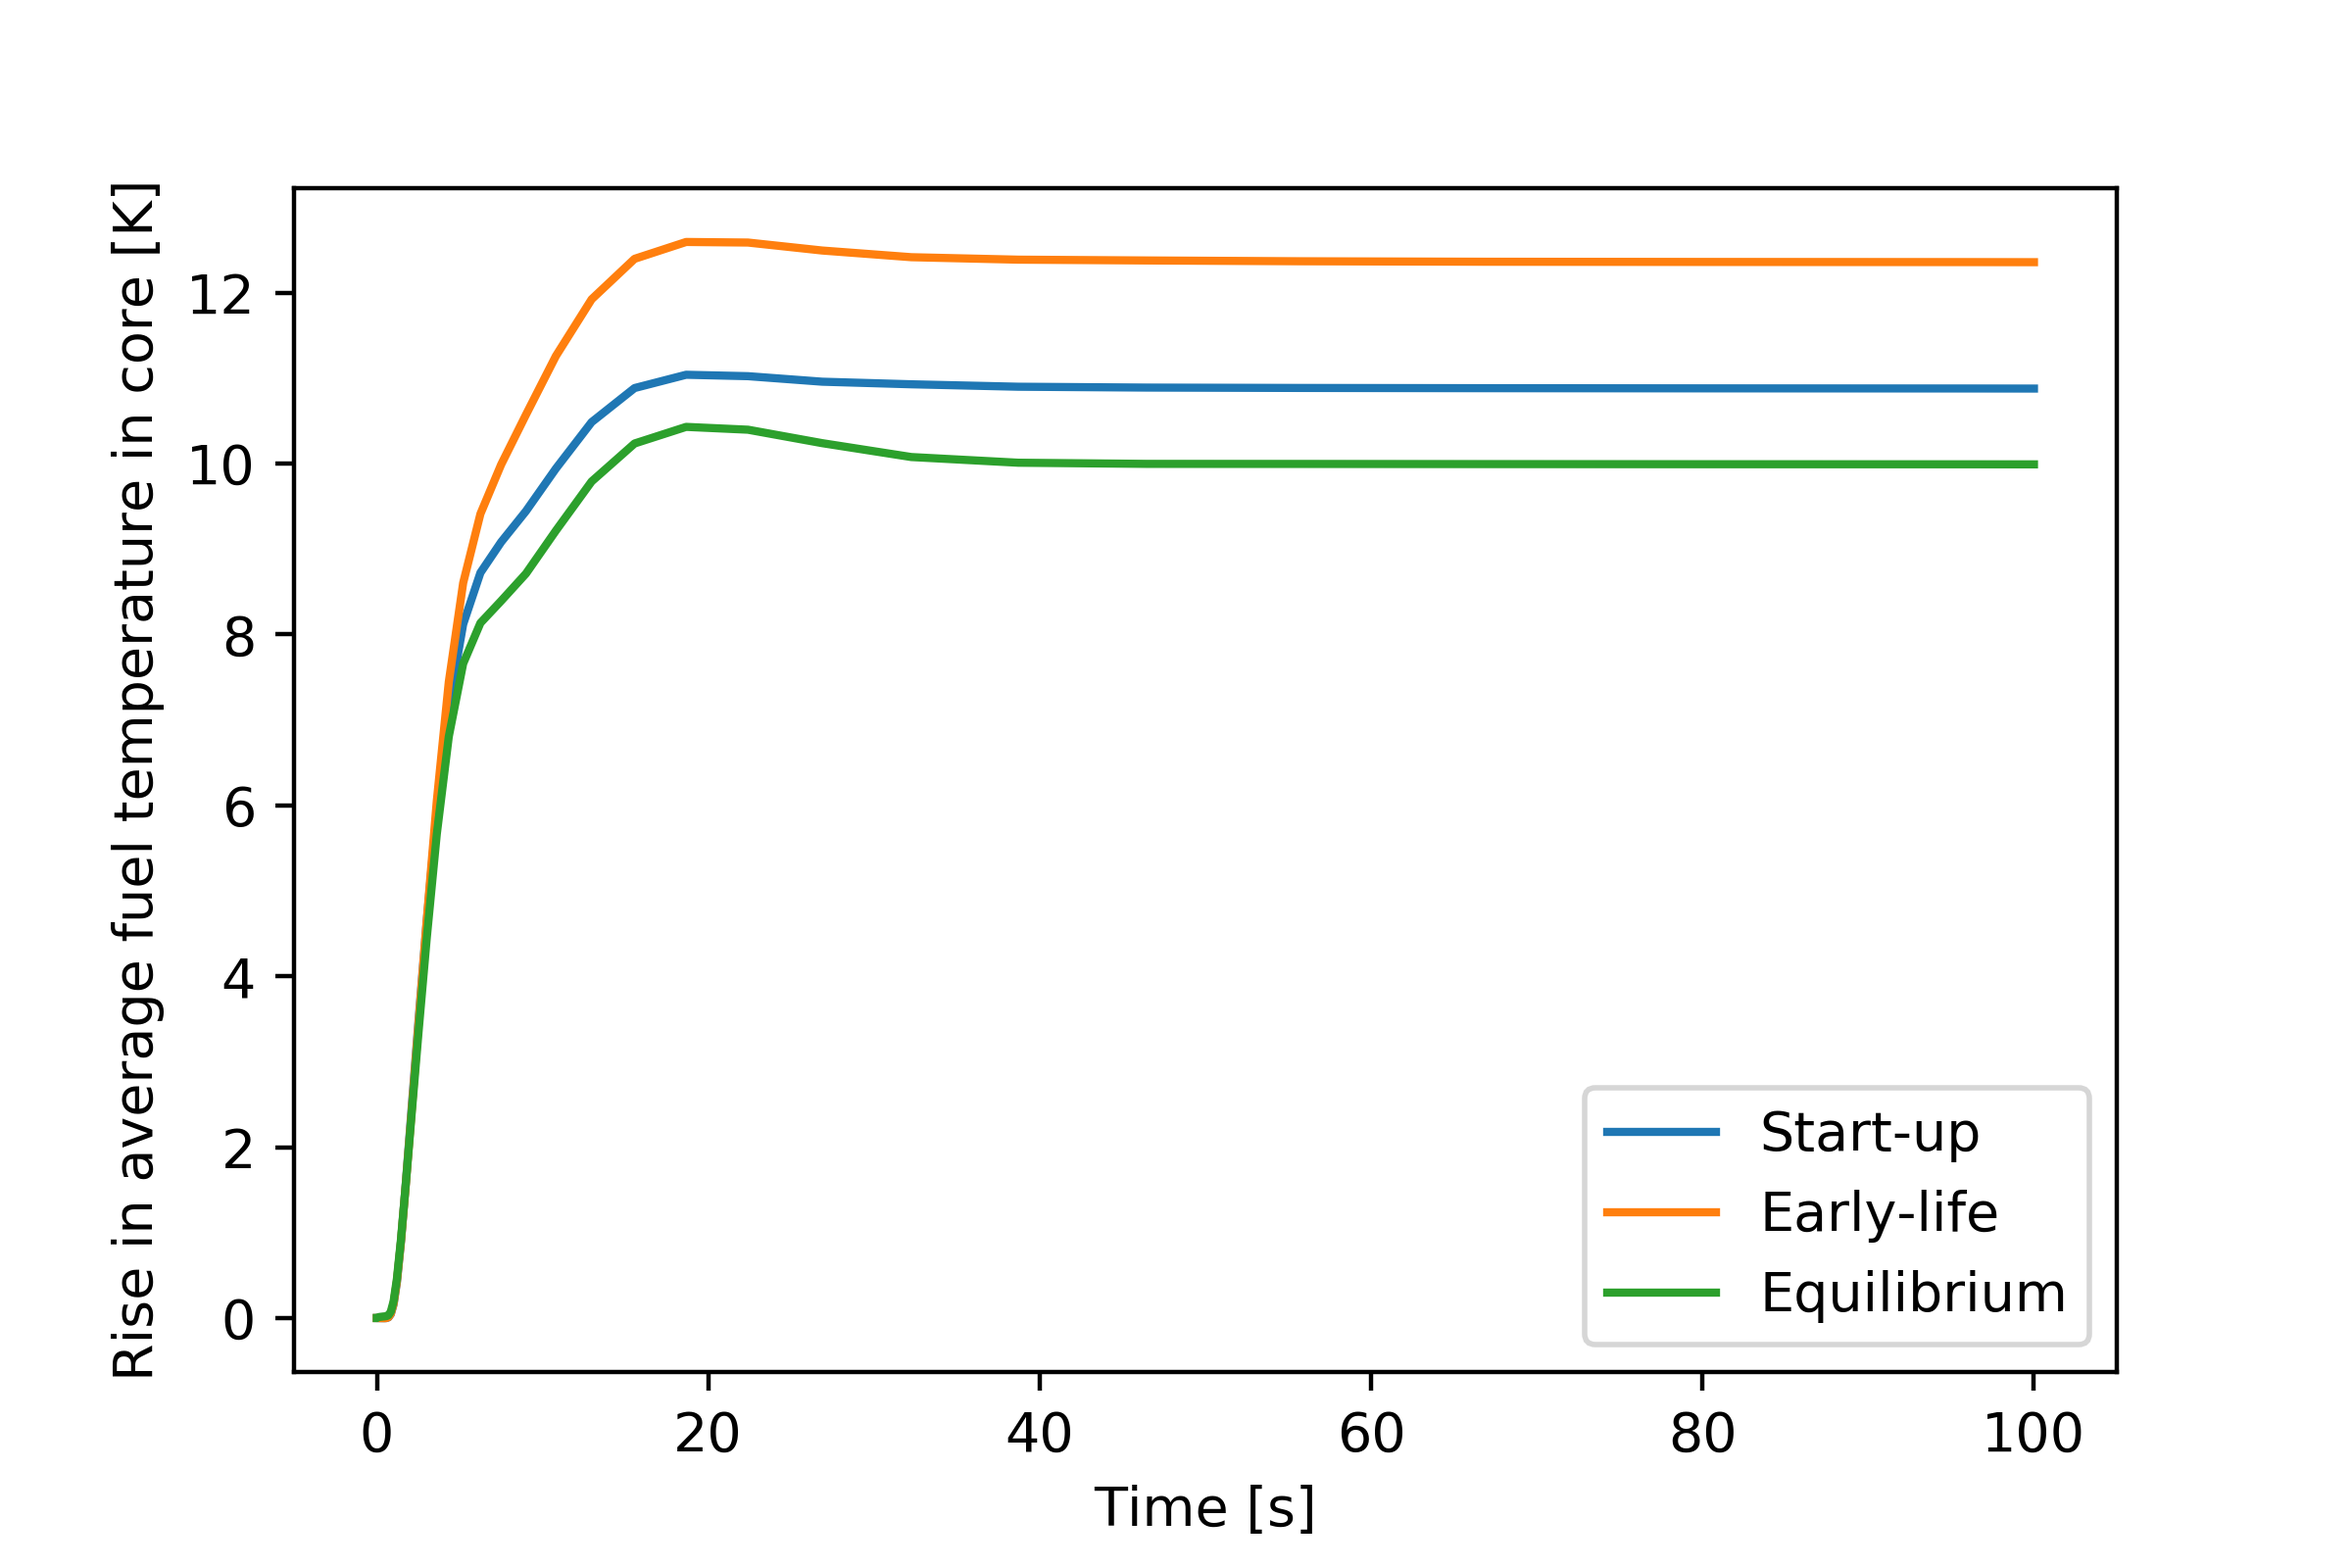
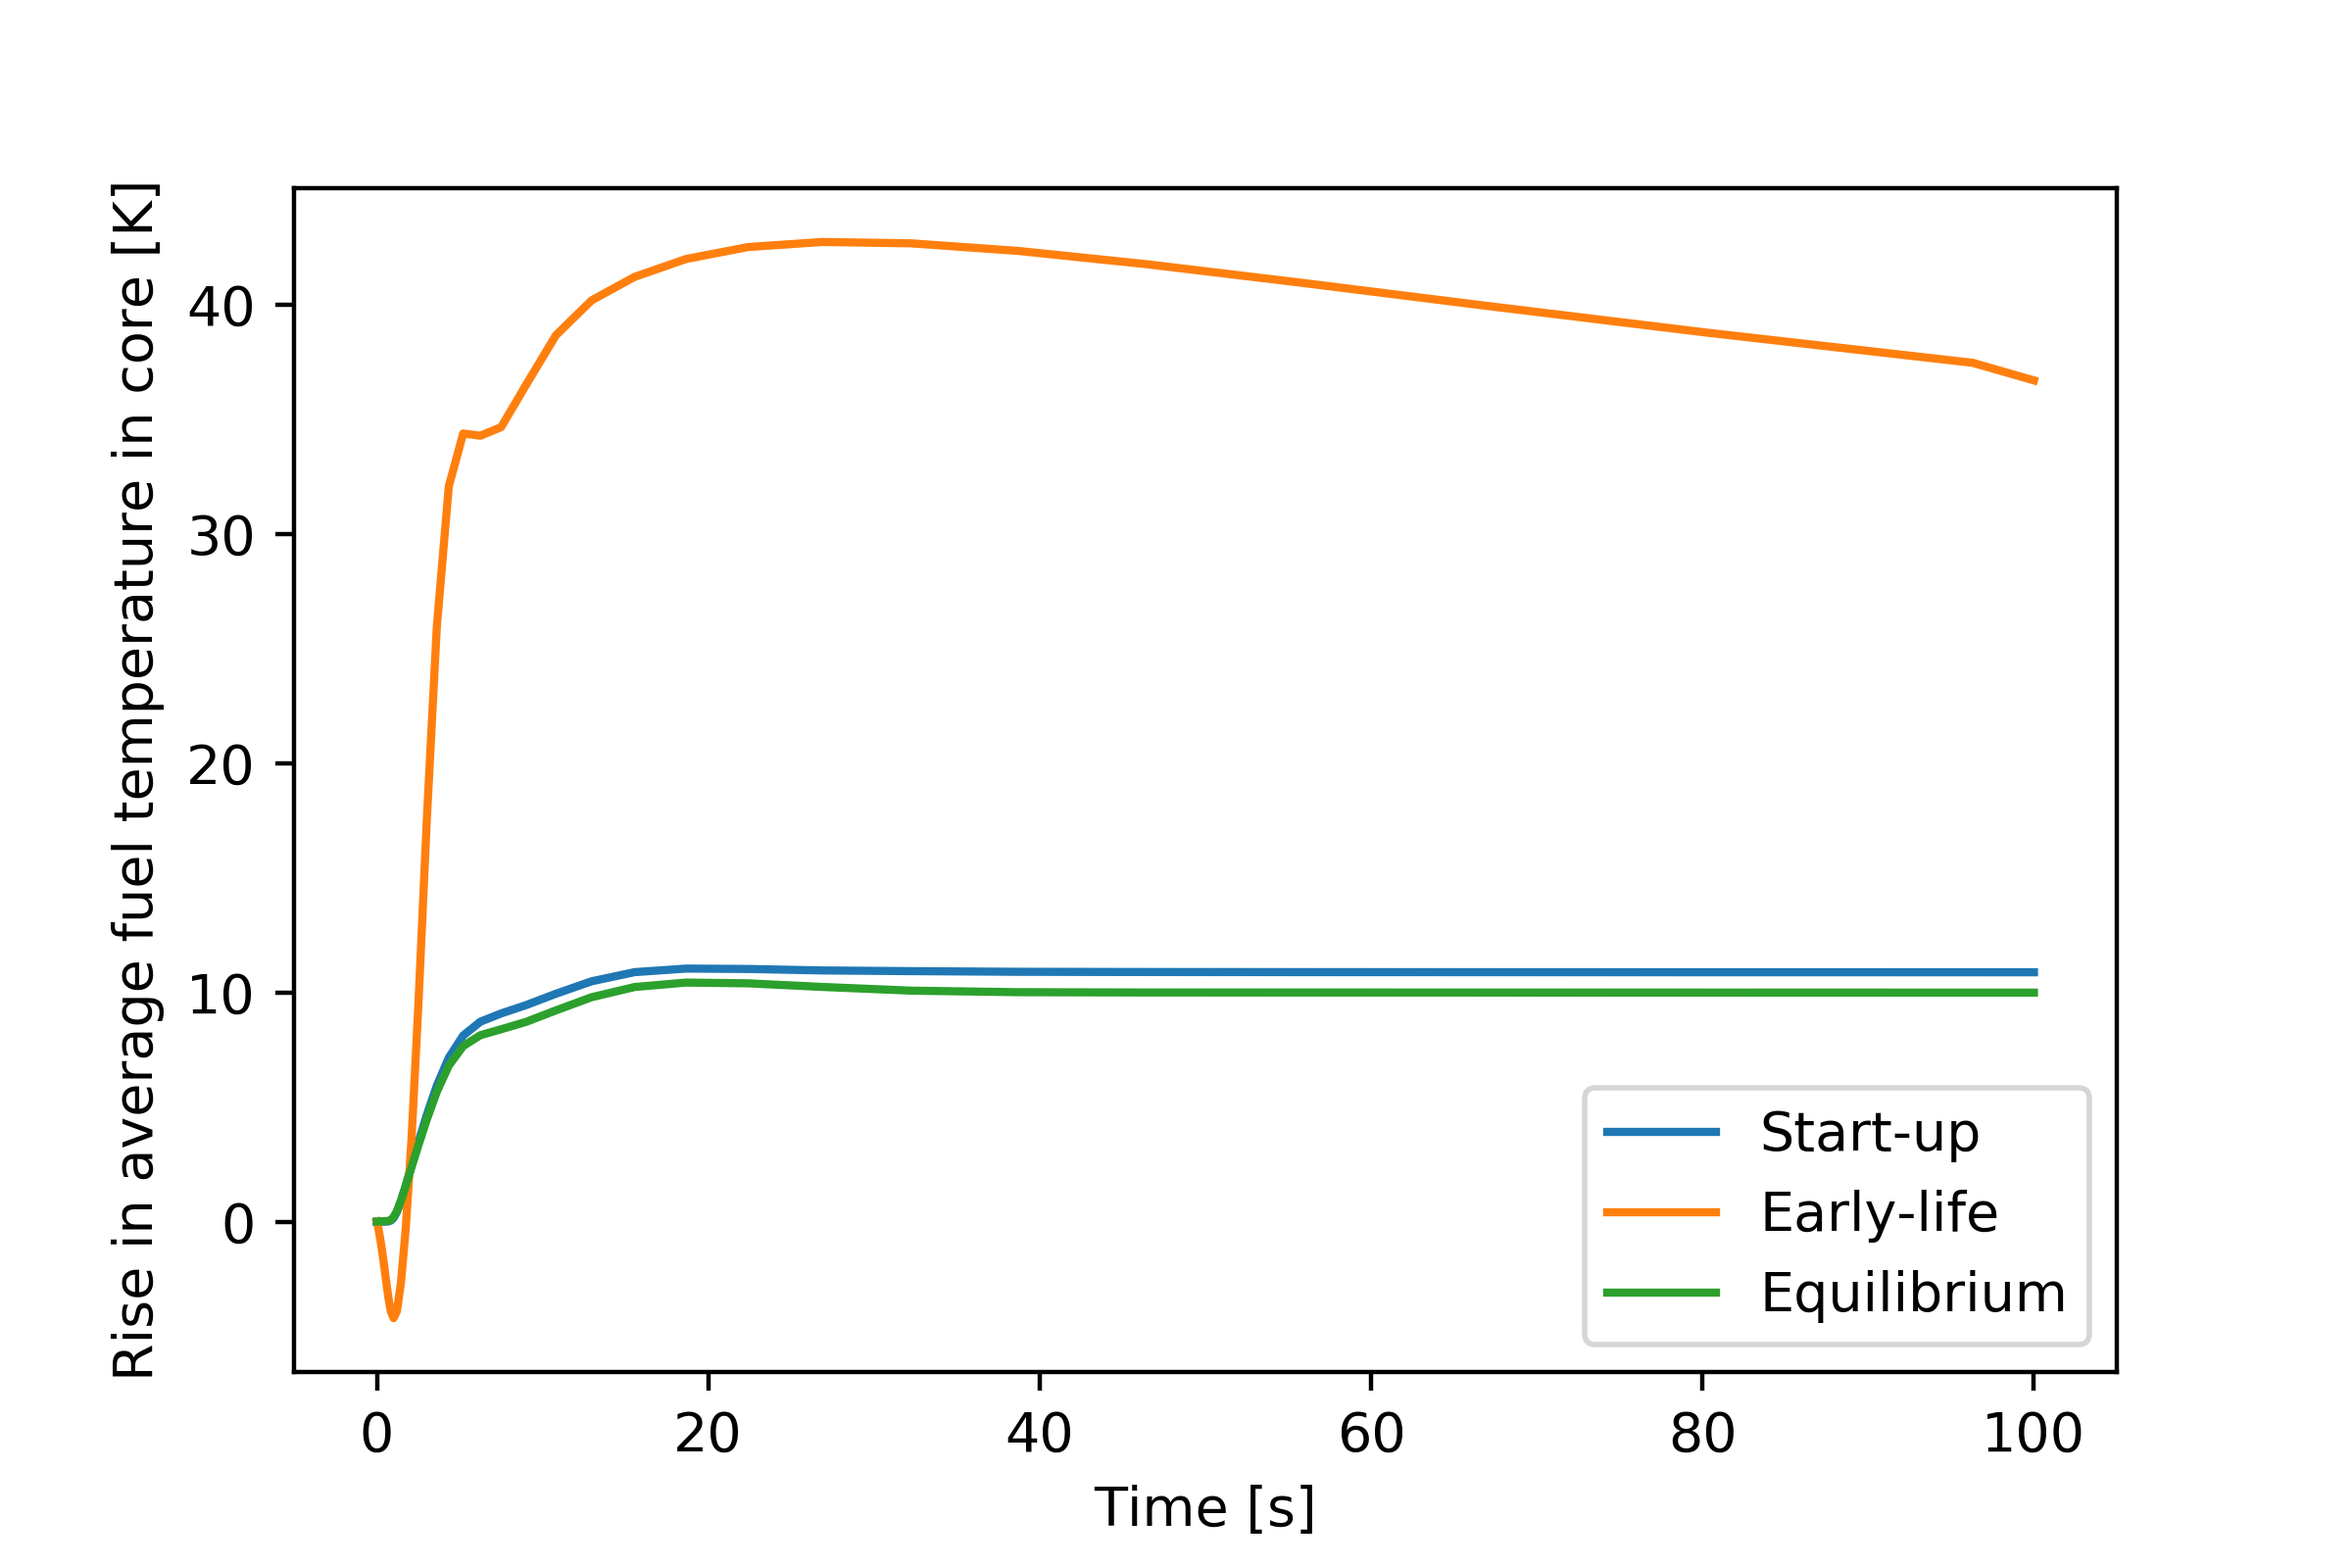
Swap wrong plot

diff --git a/data/losca-plotter.py b/data/losca-plotter.py
@@ -14,7 +14,7 @@ temp = df['temp_fuel']
 heat = df['heat']
 #maxe = df['max_temp_fuel']
 
-dfl = pd.read_csv('losca-el_out.csv')
+dfl = pd.read_csv('ulohs-st-prec_out.csv')
 tl = dfl['time']
 g1l = dfl['group1_current']
 g2l = dfl['group2_current']
